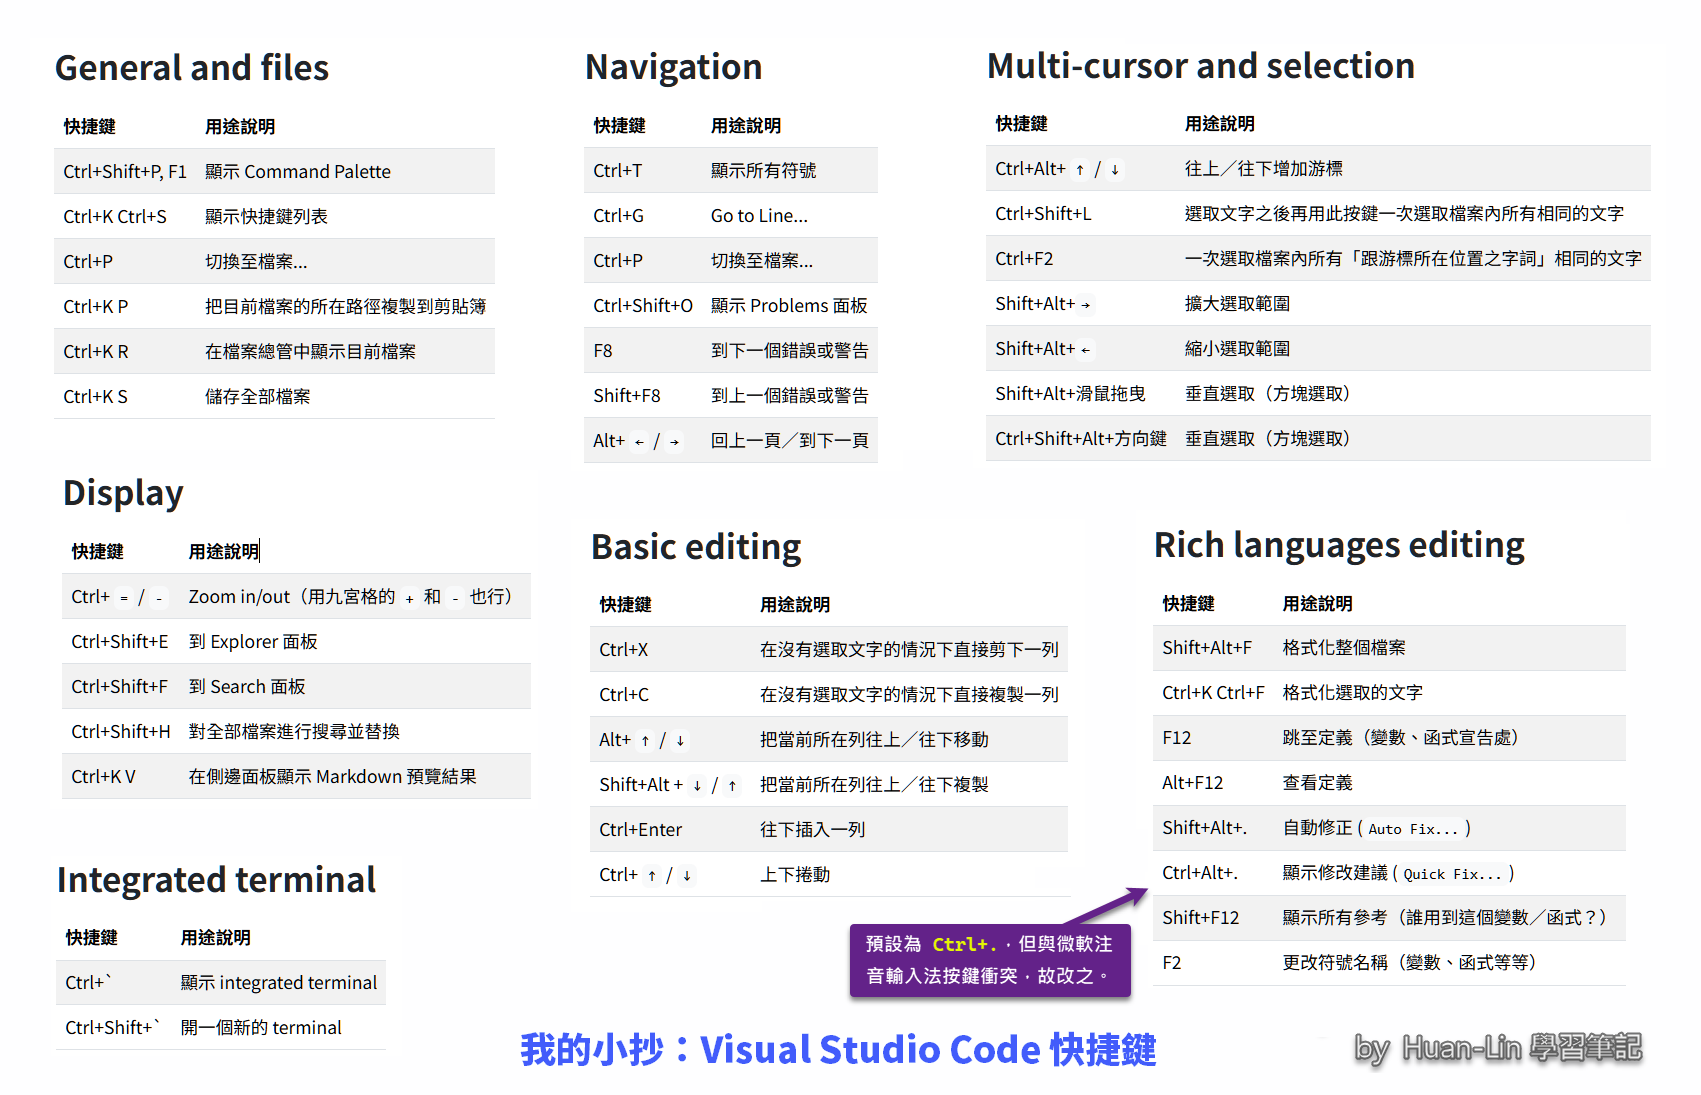
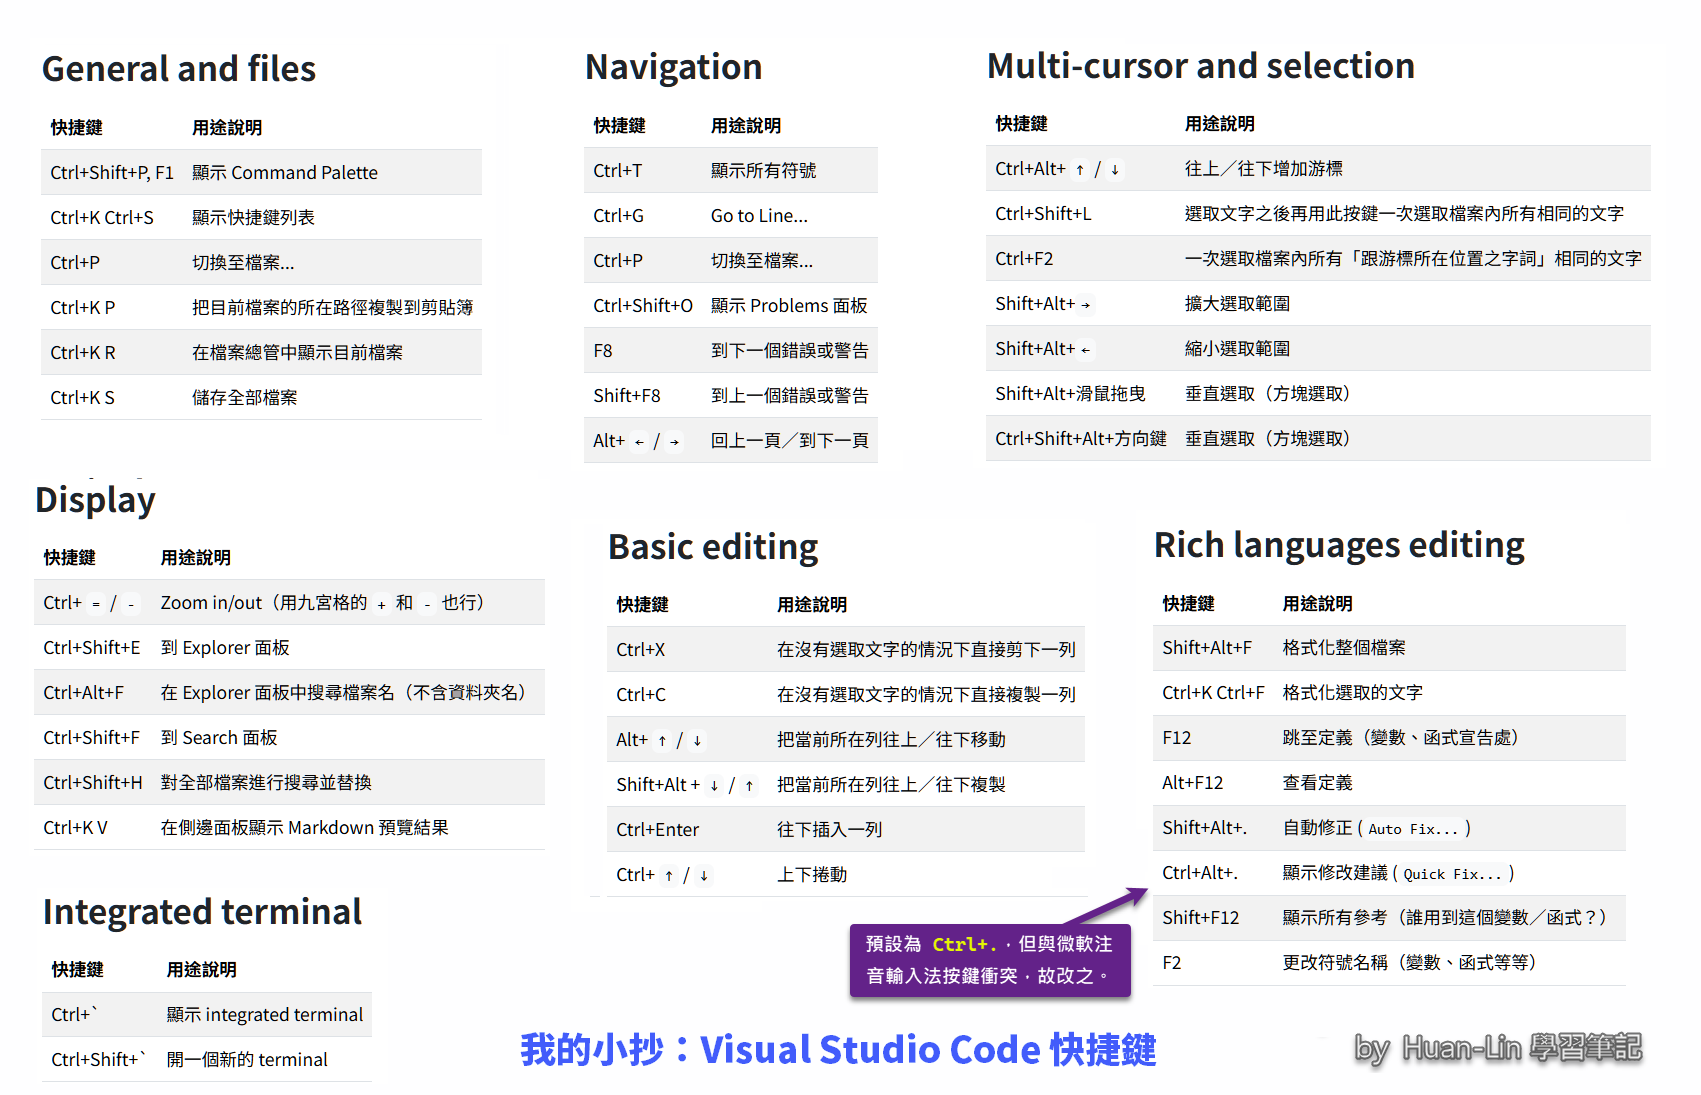
VS Code shortcut keys

diff --git a/content/docs/dotnet/async/02/index.md b/content/docs/dotnet/async/02/index.md
@@ -1,5 +1,6 @@
 ---
 title: 02 .NET 非同步 API 概覽
+draft: true
 ---
 
 如上一章結束前提到的，直接操控執行緒並不是非同步程式設計的唯一方法 ，甚至不是最佳方法 。打從&nbsp;.NET 1.x 開始就已經提供非同步 API，此後持續演進，在底層框架、模式、和語法方面都有逐步改進，並衍生出新的 API。本章將介紹&nbsp;.NET 非同步 API 的各種模式與寫法，包括直接建立執行緒（又稱為「建立專屬執行緒」）、執行緒集區（thread pool）、以及 **APM (Asynchronous Programming Model)** 和 **EAP（Event-based Asynchronous Pattern）**。當然，還有後來出現的、也是目前建議使用的 **TAP（Task-based Asynchronous Pattern）** 以及 C# 為了支援 **TAP** 所增加的 `async` 和 `await` 關鍵字的用法。

diff --git a/content/docs/cheatsheets/vscode-shortcut-keys/index.md b/content/docs/cheatsheets/vscode-shortcut-keys/index.md
@@ -65,6 +65,7 @@ tags: ["VS Code"]
 |-------------------------|----------------------|
 | Ctrl+ `=` / `-` | Zoom in/out（用九宮格的 `+` 和 `-` 也行） |
 | Ctrl+Shift+E | 到 Explorer 面板 |
+| Ctrl+Alt+F   | 在 Explorer 面板中搜尋檔案名（不含資料夾名） |
 | Ctrl+Shift+F | 到 Search 面板 |
 | Ctrl+Shift+H | 對全部檔案進行搜尋並替換 |
 | Ctrl+K V     | 在側邊面板顯示 Markdown 預覽結果 |
